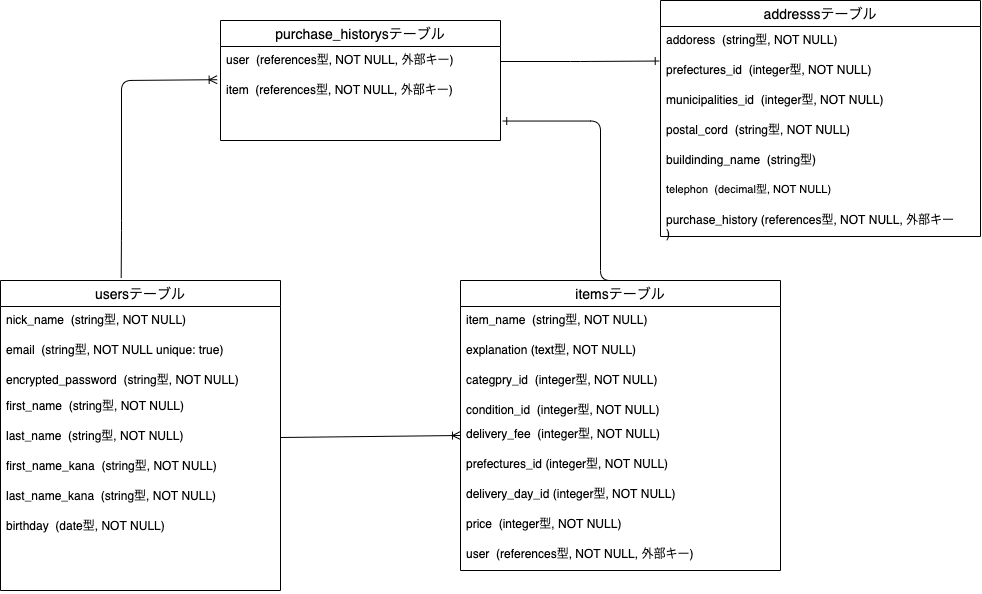
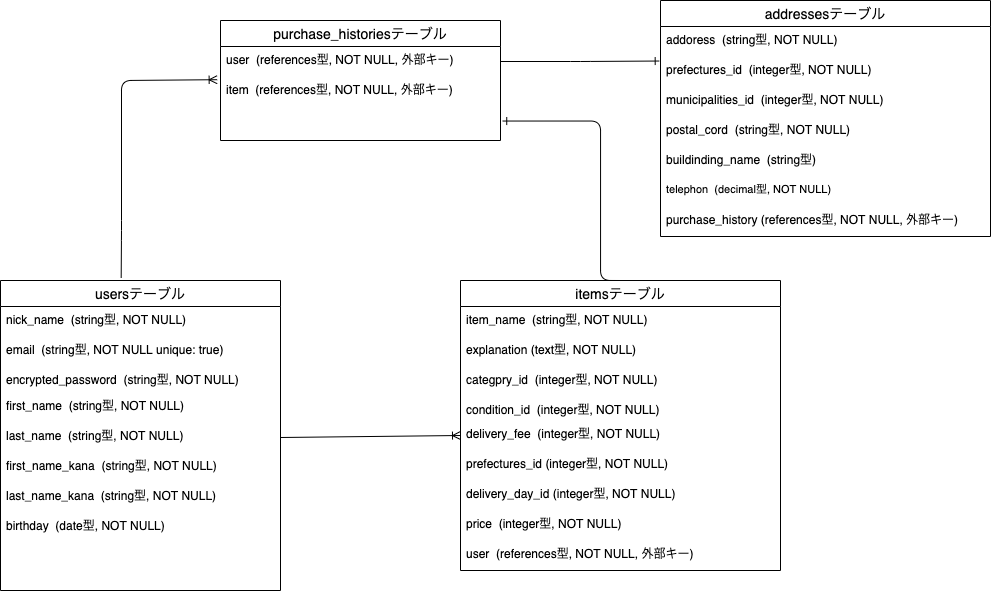
テーブル設計修正3

diff --git a/README.md b/README.md
@@ -10,7 +10,7 @@
 | last_name_kana     | string | null: false                |
 | birthday           | date   | null: false                |
 
-- has_many :Purchase_histories
+- has_many :purchase_histories
 - has_many :items
 
 ## addresses テーブル
@@ -22,19 +22,19 @@
 | postal_cord        | string     | null: false                    |
 | building_name      | string     |                                |
 | telephone_number   | string     | null: false                    |
-| Purchase_history   | references | null: false, foreign_key: true |
+| purchase_history   | references | null: false, foreign_key: true |
 
 - belongs_to :Purchase_history
 
-## Purchase_histories テーブル
+## purchase_histories テーブル
 | Column             | Type       | Options                        |
 | ------------------ | ---------- | ------------------------------ |
 | user               | references | null: false, foreign_key: true |
 | item               | references | null: false, foreign_key: true |
 
-- has_many :users
-- has_many :items
-- belongs_to :address
+- belongs_to :user
+- belongs_to :item
+- has_one :address
 
 ## items テーブル
 | Column             | Type       | Options                        |
@@ -43,11 +43,11 @@
 | explanation        | text       | null: false                    |
 | category_id        | integer    | null: false                    |
 | condition_id       | integer    | null: false                    |
-| delivery_fee       | integer    | null: false                    |
+| delivery_fee_id    | integer    | null: false                    |
 | prefectures_id     | integer    | null: false                    |
 | delivery_day_id    | integer    | null: false                    |
 | price              | integer    | null: false                    |
 | user               | references | null: false, foreign_key: true |
 
 - has_many :users
-- belongs_to :Purchase_history
+- has_one :purchase_history
